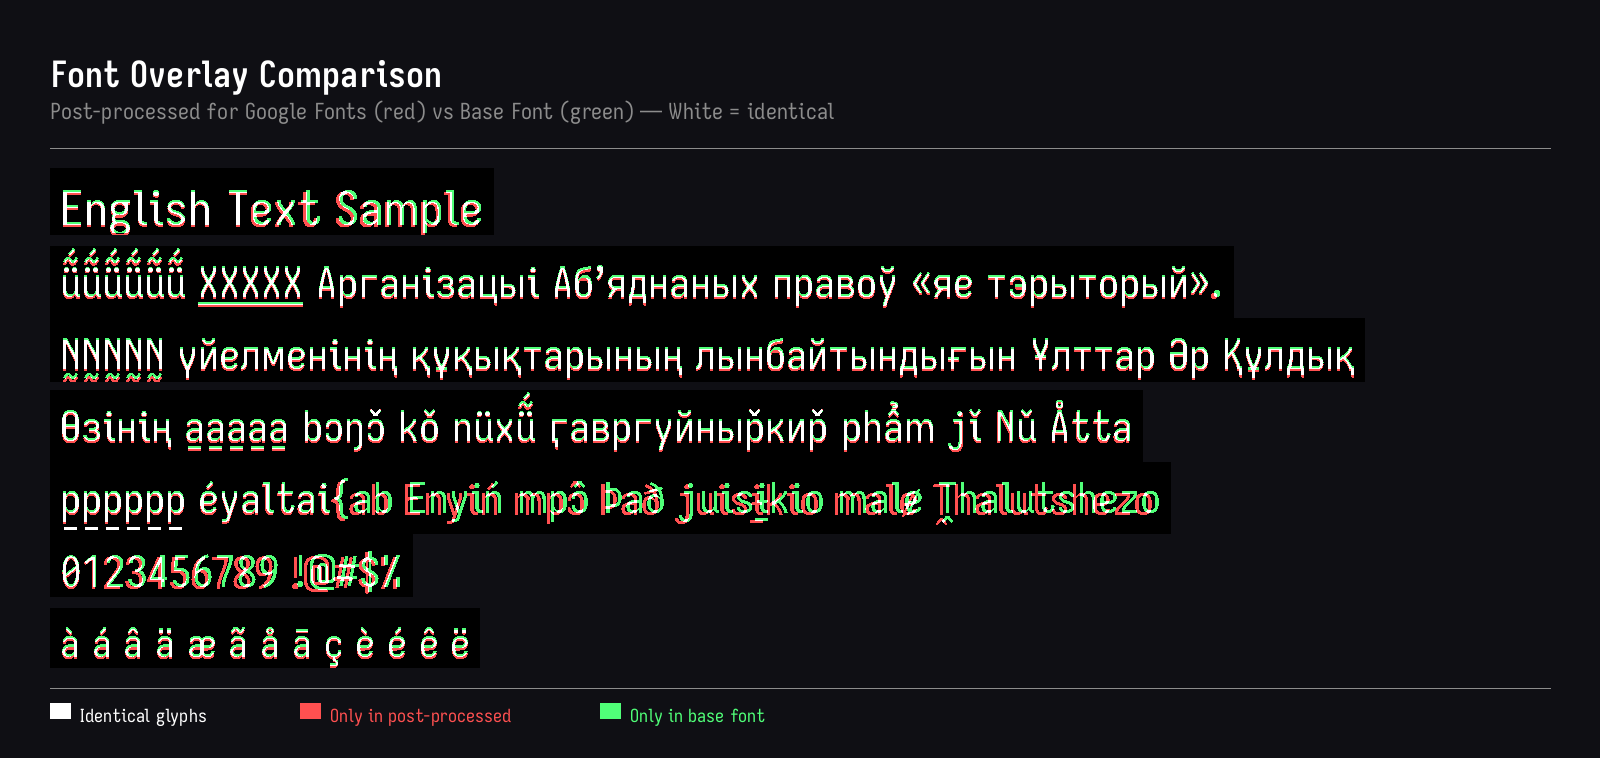
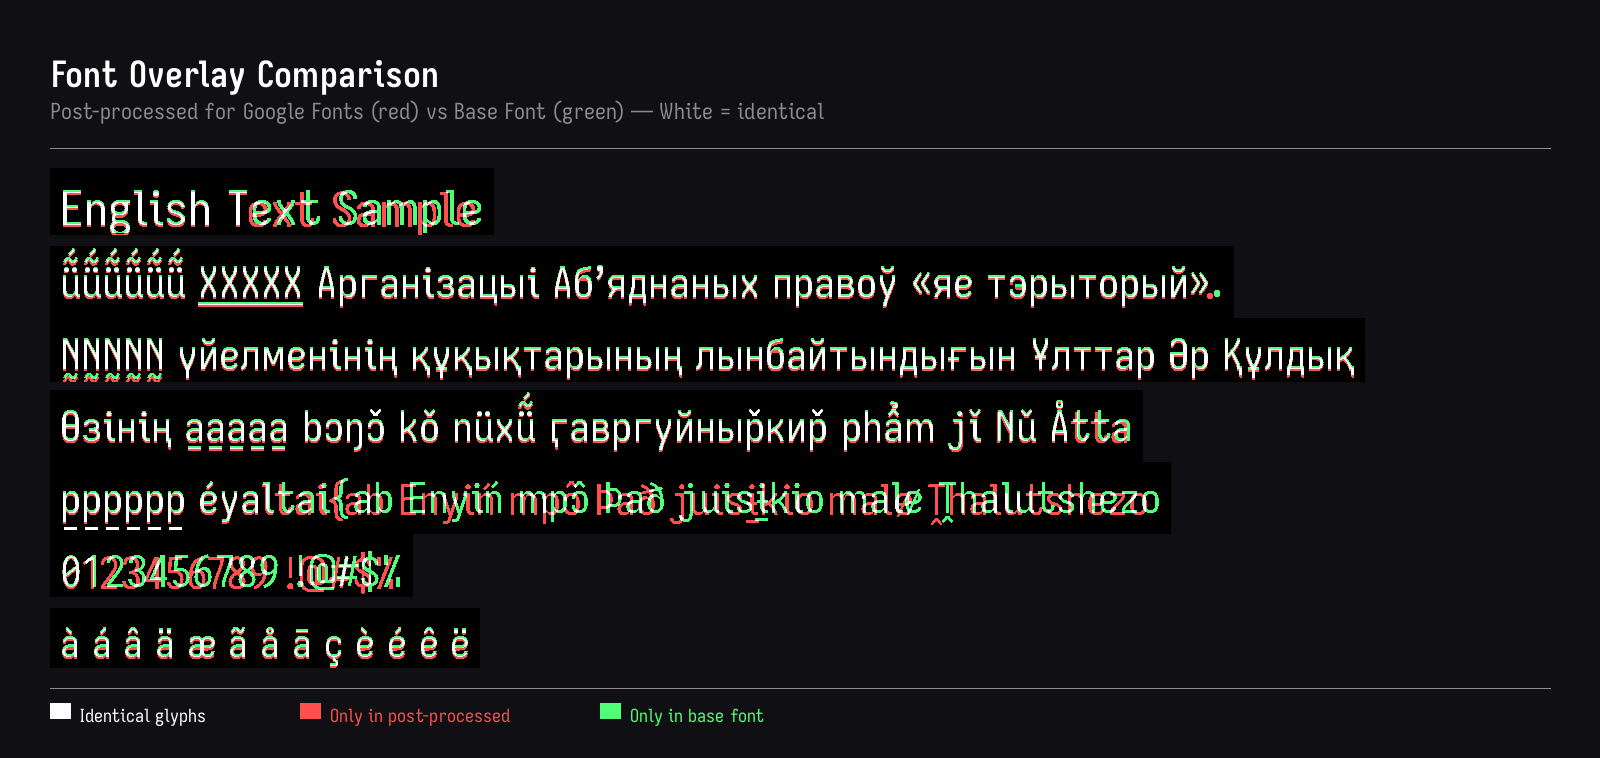
Disable kern halving — use full SDF-computed kern values
The SDF calibration already targets correct inter-glyph spacing.
Halving on top of that just makes kerning less effective.

diff --git a/scripts/autokern.py b/scripts/autokern.py
@@ -105,7 +105,7 @@ class AutoKernConfig:
 
     envelope: str = "sdf"  # "sdf" (default, best) or "gaussian"
     reduce: str = "sum"  # "sum" (default) or "max"
-    half_negative: bool = True  # halve negative kerns (the "Half" in HalfKern)
+    half_negative: bool = False  # use full computed kerns (not halved)
     min_kern_units: int = -250  # clamp: most negative kern allowed (font units)
     max_kern_units: int = 100  # clamp: most positive kern allowed (font units)
     threshold_units: int = 5  # drop kerns smaller than this (font units)
